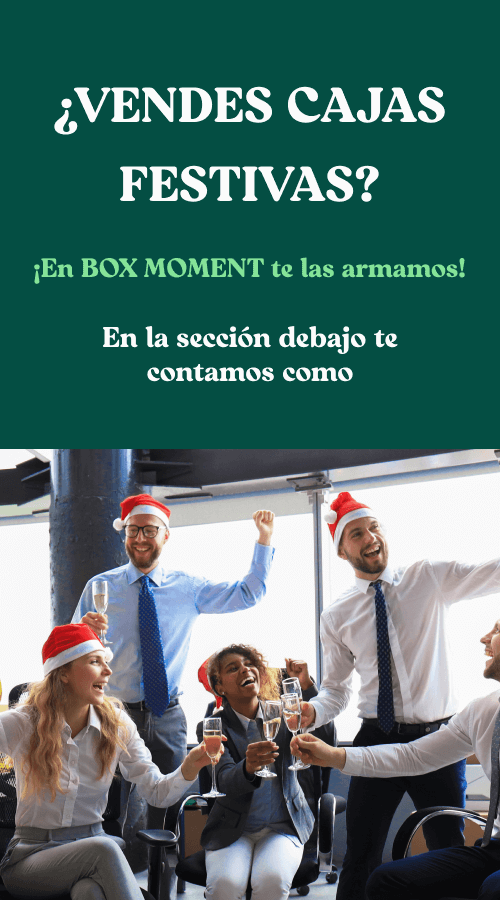
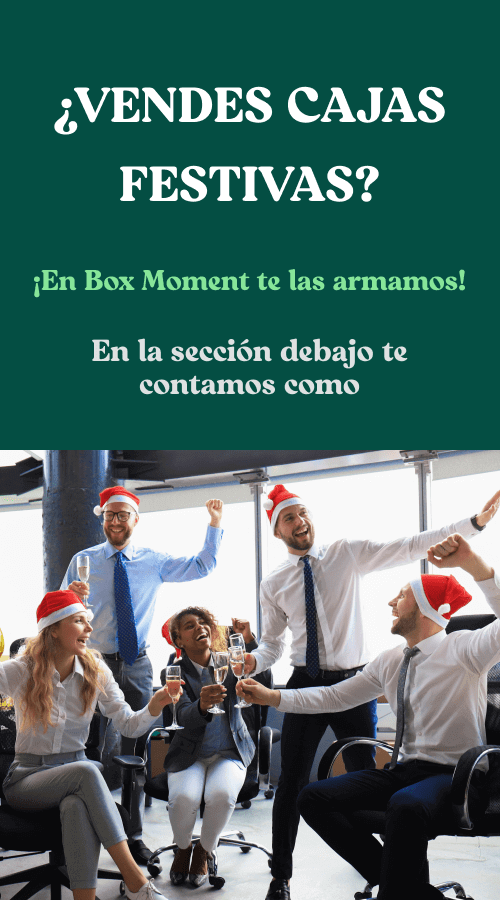
added form contacto@boxmoment

diff --git a/src/components/Products.jsx b/src/components/Products.jsx
@@ -22,7 +22,7 @@ const Products = () => {
 
             <img src="/images/productos/cajaRojaNueva.png" className="w-80 mt-10 mb-2" title='Caja Navideña Roja' alt='Caja Navideña Roja' width='auto' height='auto' loading="lazy"  />
 
-            <h4 className="font-primary font-light underline decoration-1 decoration-wavy underline-offset-1 mb-2">10 productos</h4>
+            <h4 className="font-primary font-light underline decoration-1 decoration-wavy underline-offset-1 mb-2">11 productos</h4>
 
             <ul className="font-secondary font-semibold text-xs">
               <li><p className="flex items-center gap-1"><TbChristmasTree className="text-xmasRed"/> Sidra 720cc -<span className="font-extrabold">Del Valle</span></p></li>
@@ -35,6 +35,7 @@ const Products = () => {
               <li><p className="flex items-center gap-1"><TbChristmasTree className="text-xmasRed"/> Bocaditos de DDL 80gr –<span className="font-extrabold">Chocolart</span></p></li>
             <li><p className="flex items-center gap-1"><TbChristmasTree className="text-xmasRed"/> Maní c/Chocolate 80gr –<span className="font-extrabold">Chocolart</span></p></li>
             <li><p className="flex items-center gap-1"><TbChristmasTree className="text-xmasRed"/> Confites de Chocolate 80gr –<span className="font-extrabold">Chocolart</span></p></li>
+            <li><p className="flex items-center gap-1"><TbChristmasTree className="text-xmasRed"/> Estuche Navideño</p></li>
               
             </ul>
 
@@ -48,7 +49,7 @@ const Products = () => {
 
             <img src="/images/productos/cajaVerdeNueva.png" className="w-80 mt-10 mb-2 underline underline-offset-8 decoration-wavy decoration-gray-950" title='Caja Navideña Verde' alt='Caja Navideña Verde' width='auto' height='auto' loading="lazy" />
 
-            <h4 className="font-primary font-light underline decoration-1 decoration-wavy underline-offset-1 mb-2">8 productos</h4>
+            <h4 className="font-primary font-light underline decoration-1 decoration-wavy underline-offset-1 mb-2">9 productos</h4>
 
             <ul className="font-secondary font-semibold text-xs">
               <li><p className="flex items-center gap-1"><TbChristmasTree className="text-pineGreen"/> Sidra 720cc -<span className="font-extrabold">Del Valle</span></p></li>
@@ -59,6 +60,7 @@ const Products = () => {
               <li><p className="flex items-center gap-1"><TbChristmasTree className="text-pineGreen"/> Postre de Maní 75gr –<span className="font-extrabold">Lheritier</span></p></li>
               <li><p className="flex items-center gap-1"><TbChristmasTree className="text-pineGreen"/> Garrapiñada 80gr –<span className="font-extrabold">Lheritier</span></p></li>
               <li><p className="flex items-center gap-1"><TbChristmasTree className="text-pineGreen"/> Confites de Chocolate 40gr –<span className="font-extrabold">Chocolart</span></p></li>
+              <li><p className="flex items-center gap-1"><TbChristmasTree className="text-pineGreen"/> Estuche Navideño</p></li>
             </ul>
 
           </div>

diff --git a/src/components/Carousel.jsx b/src/components/Carousel.jsx
@@ -6,7 +6,7 @@ export default function Carousel({
   autoSlideInterval = 10000,
 }) {
  
-  const slides = (window.innerWidth > 450 ) ? ["/images/slides/slide1.png/", "/images/slides/slide2.png/", "/images/slides/slide3.png/", "/images/slides/slide4.png/"] : ["/images/slides/slide1Mobile.png/", "/images/slides/slide2Mobile.png/", "/images/slides/slide3Mobile.png/", "/images/slides/slide4Mobile.png/" ]
+  const slides = (window.innerWidth > 450 ) ? ["/images/slides/slide1.png/", "/images/slides/slide2.png/", "/images/slides/slide4.png/"] : ["/images/slides/slide1Mobile.png/", "/images/slides/slide2Mobile.png/", "/images/slides/slide4Mobile.png/" ]
 
   const [curr, setCurr] = useState(0)
 

diff --git a/src/components/Services.jsx b/src/components/Services.jsx
@@ -32,7 +32,7 @@ const Services = () => {
                 viewport={{ once: true }}
                 transition= {{ duration: 0.5, delay: 0.3 }} 
                 className="text-pineGreen text-3xl md:text-5xl leading-normal font-primary self-start font-bold text-center mb-4">
-                ¡En <span className="text-darkNight">BOX MOMENT</span> nos encargamos de armar tus cajas!
+                <span className="text-darkNight">¡En BOX MOMENT</span> <br /> nos encargamos de armar tus cajas!
             </motion.h2>
 
             <motion.h3

diff --git a/src/components/ContactForm.jsx b/src/components/ContactForm.jsx
@@ -30,7 +30,7 @@ export default function ContactForm() {
 
   const onSubmit = methods.handleSubmit(data => {
     console.log(data)
-    emailjs.sendForm('service_5c1a51u', 'template_pdgdg8b', form.current, 'Xl00r8D3G-NwN09jC')
+    emailjs.sendForm('service_305tje7', 'template_j0k9pdo', form.current, 'OrBH7jEGLo1-NwFw2')
         .then((result) => {
             console.log(result.text);
             setSuccess(true)
